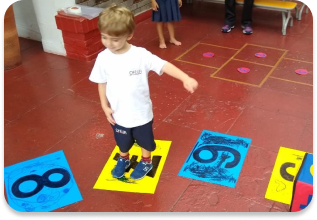
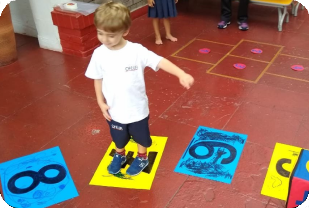
Alteração no planos.css, imagens planos, planos.html, incluído pasta js com arquivos planos.js, adicionado eventos mouseover em alguns elementos

diff --git a/planos.html b/planos.html
@@ -9,6 +9,7 @@
   <link rel="stylesheet" href="css/style.css">
   <link rel="stylesheet" href="css/header.css">
   <link rel="stylesheet" href="css/planos.css">
+  <script src="js/planos.js" defer></script>
   <link rel="preconnect" href="https://fonts.googleapis.com">
   <link href="https://fonts.googleapis.com/css2?family=Roboto:wght@300&display=swap" rel="stylesheet">
   <link rel="preconnect" href="https://fonts.gstatic.com" crossorigin>
@@ -40,7 +41,7 @@
   </section>
   <section class="sectionPlanosFFFFFF">
     <div class="padding-dir-imagem">
-      <img src="img/nossosPlanos/professoraEGrupoCriancas.png" alt="Imagem de uma professora com um grupo de crianças">
+      <img class="imagemEsquerdaComSombra" src="img/nossosPlanos/professoraEGrupoCriancas.png" alt="Imagem de uma professora com um grupo de crianças">
     </div>
     <div>
       <h3 class="h3-subtitulo">Planos Flexíveis</h3>
@@ -53,12 +54,12 @@
       <p>Temos profissionais qualificados para atender às necessidades de crianças com necessidades especiais, garantindo que todas as crianças tenham igualdade de oportunidades.</p>
     </div>
     <div>
-      <img src="img/nossosPlanos/criancaComViolao.png" alt="Imagem de uma criança tocando violão e uma turma atrás">
+      <img class="imagemDireitaComSombra" src="img/nossosPlanos/criancaComViolao.png" alt="Imagem de uma criança tocando violão e uma turma atrás">
     </div>
   </section>
   <section class="sectionPlanosFFFFFF">
     <div class="padding-dir-imagem">
-      <img src="img/nossosPlanos/criancaBrincando.png" alt="Imagem de uma criança brincando com números no chão">
+      <img class="imagemEsquerdaComSombra" src="img/nossosPlanos/criancaBrincando.png" alt="Imagem de uma criança brincando com números no chão">
     </div>
     <div>
       <h3 class="h3-subtitulo">Atividades Lúdicas e Educativas</h3>
@@ -71,7 +72,7 @@
       <p>Fornecemos refeições nutritivas e equilibradas para garantir o bem-estar das crianças.</p>
     </div>
     <div>
-      <img src="img/nossosPlanos/criancaComendoVerdura.png" alt="Imagem de uma criança comendo verdura">
+      <img class="imagemDireitaComSombra" src="img/nossosPlanos/criancaComendoVerdura.png" alt="Imagem de uma criança comendo verdura">
     </div>
   </section>
   <section class="sectionPeriodo">

diff --git a/js/planos.js b/js/planos.js
@@ -1,0 +1,50 @@
+document.addEventListener('DOMContentLoaded', function () {
+    var imagens = document.querySelectorAll('.imagemEsquerdaComSombra');
+  
+    imagens.forEach(function (imagem) {
+      imagem.addEventListener('mouseover', function () {
+        imagem.classList.add('sombra-imagem-direita-baixo');
+      });
+  
+      imagem.addEventListener('mouseout', function () {
+        imagem.classList.remove('sombra-imagem-direita-baixo');
+      });
+    });
+});
+
+document.addEventListener('DOMContentLoaded', function () {
+    var imagens = document.querySelectorAll('.imagemDireitaComSombra');
+
+    imagens.forEach(function (imagem) {
+        imagem.addEventListener('mouseover', function () {
+        imagem.classList.add('sombra-imagem-esquerda-baixo');
+        });
+
+        imagem.addEventListener('mouseout', function () {
+        imagem.classList.remove('sombra-imagem-esquerda-baixo');
+        });
+    });
+});  
+
+
+
+var botao = document.querySelector(".botao-meio-periodo");
+
+botao.addEventListener("mouseover", function() {
+    this.style.backgroundColor = "#CA2C20";
+});
+
+botao.addEventListener("mouseout", function() {
+    this.style.backgroundColor = "#17B806";    
+});
+
+
+var botao = document.querySelector(".botao-periodo-integral");
+
+botao.addEventListener("mouseover", function() {
+    this.style.backgroundColor = "#17B806";
+});
+
+botao.addEventListener("mouseout", function() {
+    this.style.backgroundColor = "#CA2C20";    
+});

diff --git a/css/planos.css b/css/planos.css
@@ -67,6 +67,18 @@ p {
     border-bottom: 5px solid #58BB29;
 }
 
+.sombra-imagem-direita-baixo {
+    box-shadow: 3px 4px 8px #622363; 
+    transition: box-shadow 0.3s ease; 
+    border-radius: 20px;
+}
+
+.sombra-imagem-esquerda-baixo {
+    box-shadow: -3px 4px 8px #622363; 
+    transition: box-shadow 0.3s ease; 
+    border-radius: 20px;
+}
+
 .texto-planos {
     line-height: 1.7rem;
     margin-bottom: 2.5rem;
@@ -85,8 +97,13 @@ h3 {
     flex-direction: row;
 }
 
+.sectionPlanosFFFFFF img {
+    border-radius: 20px;
+}
+
 .padding-dir-imagem {
     padding-right: 5rem;
+    border-radius: 20px;
 }
 
 .h3-subtitulo {
@@ -99,6 +116,10 @@ h3 {
     display: flex;
     flex-direction: row;
     justify-content: space-between;
+}
+
+.sectionPlanosFEEAA2 img {
+    border-radius: 20px;
 }
 
 .sectionPeriodo {
@@ -124,6 +145,7 @@ h3 {
     border-radius: 2rem;
     text-decoration: none;
     color: #FFFFFF;
+    font-weight: 900;
 }
 
 .botao-periodo-integral {
@@ -132,4 +154,7 @@ h3 {
     border-radius: 2rem;
     text-decoration: none;
     color: #FFFFFF;
+    font-weight: 900;
 }
+
+  
